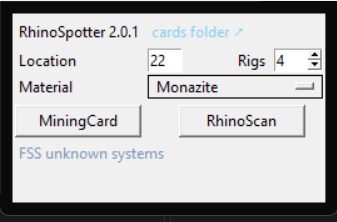
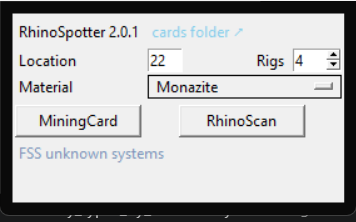
Put the landable count with the system, not with the button
"3 landable" sat beside RhinoScan, which read as a fact about the button. It is
a fact about the system you are in: true before anyone presses anything, and
the only line in the panel that moved on its own while you flew.

It is on the top row now, right-aligned, beside the version and the cards link
- the three things that describe where you are rather than what you are about
to do. The button row is two buttons and a marker again.

diff --git a/rs_ui/main.py b/rs_ui/main.py
@@ -68,7 +68,13 @@ def build(parent):
     tk.Label(_frame, text=f"RhinoSpotter {update.RUNNING}", anchor="w").grid(
         row=0, column=0, sticky="w", padx=2, pady=(4, 2))
     link = _folder_link(_frame)
-    link.grid(row=0, column=1, columnspan=3, sticky="w", padx=2, pady=(4, 2))
+    link.grid(row=0, column=1, sticky="w", padx=2, pady=(4, 2))
+
+    # Up here with the system-level things, not down beside the button. How
+    # many bodies are in this system is true before anyone presses anything,
+    # and it was the only line in the panel that moved on its own.
+    _scan_count = tk.Label(_frame, text="", anchor="e", fg=palette.MUTED)
+    _scan_count.grid(row=0, column=2, columnspan=2, sticky="e", padx=2, pady=(4, 2))
 
     # Location and Rigs are both four characters wide, so they share a row and
     # set how far the panel runs. Material goes underneath and stretches to the
@@ -99,8 +105,6 @@ def build(parent):
     _done = tk.Label(row, text="", anchor="w")
     _done.pack(side="left", padx=(8, 0))
     tk.Button(row, text="RhinoScan", width=13, command=open_scan).pack(side="left", padx=(16, 0))
-    _scan_count = tk.Label(row, text="", anchor="w")
-    _scan_count.pack(side="left", padx=(8, 0))
 
     # The one thing RhinoScan cannot do for you, and the thing everyone gets
     # wrong first: the honk finds the bodies, it does not describe them. Only
